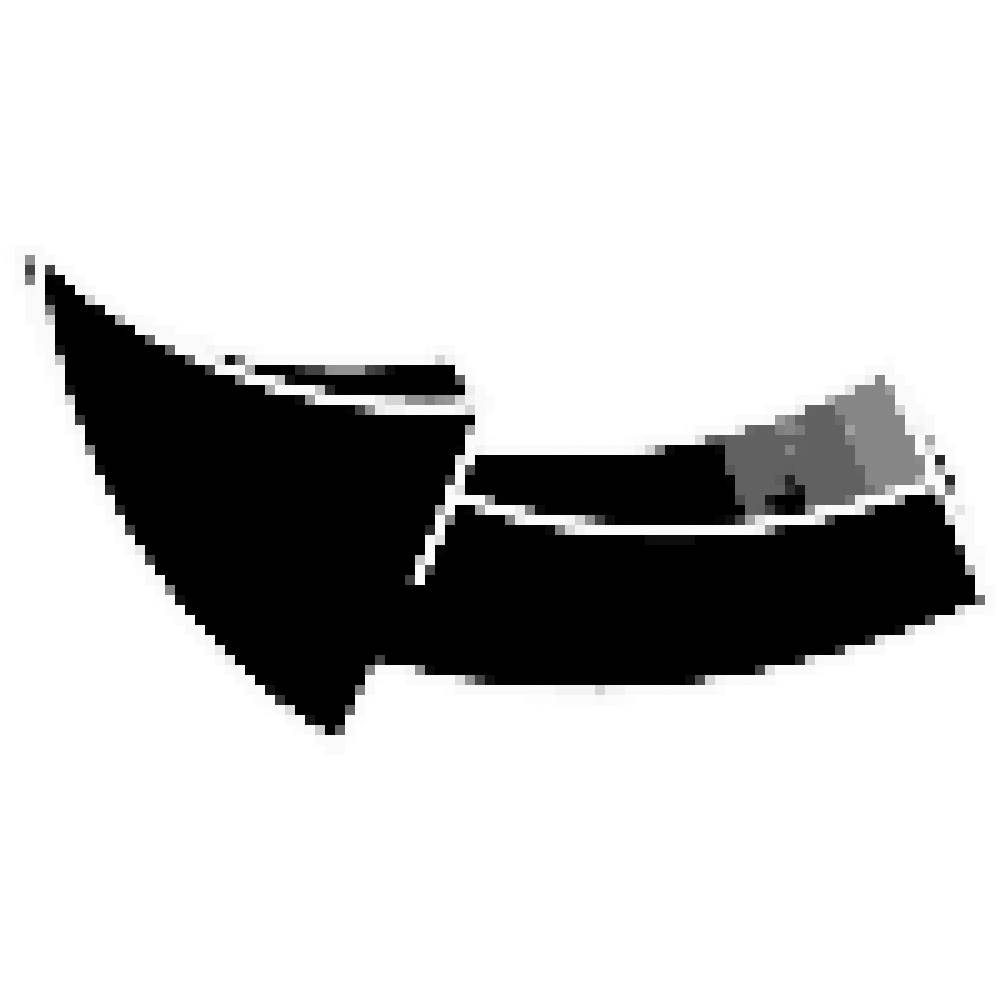
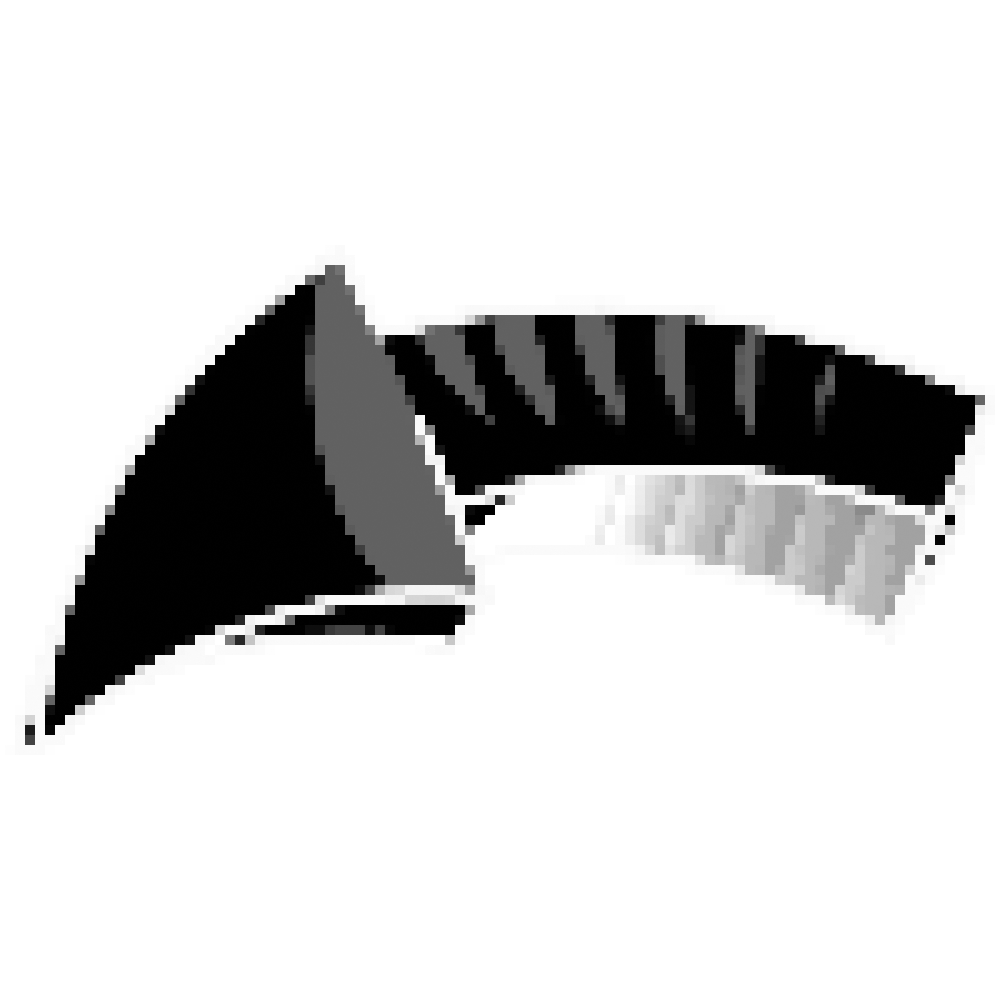
adding arrow for turning grid

Changed region(s): [[0.0, 0.248, 0.992, 0.744]]

diff --git a/src/core/rules/RulesCommun.hpp b/src/core/rules/RulesCommun.hpp
@@ -388,8 +388,8 @@ public:
     CardTurnGrid(std::string name, std::string description, int id) : Card(name, description, id)
     {
         this->canBeGlobalRules = true;
-        arrowDirection.push_back("left");
-        arrowDirection.push_back("right");
+        arrowDirection.push_back("turnLeft");
+        arrowDirection.push_back("turnRight");
     };
     /**
      * @brief Destructor for the CardTurnGrid class.
@@ -410,23 +410,23 @@ public:
     void applyCard(int x, int y, int CurrentGrid, Player &currentPlayer, Game &game, std::string sens) override
     {
         applyWhenGlobalRule(game, CurrentGrid);
-        if (sens == "left" || sens == "default")
+        if (sens == "turnLeft" || sens == "default")
         {
             turnLeft(CurrentGrid, game);
         }
-        else if (sens == "right")
+        else if (sens == "turnRight")
         {
             turnRight(CurrentGrid, game);
         }
     }
 
     /**
-     * @brief Turn the grid to the right.
+     * @brief Turn the grid to the left .
      *
      * @param CurrentGrid The current grid of the game.
      * @param game The game of the card.
      */
-    void turnRight(int CurrentGrid, Game &game)
+    void turnLeft(int CurrentGrid, Game &game)
     {
         Grid currentGrid = game.getGrid(CurrentGrid);
         std::vector<std::vector<Case *>> cases = currentGrid.getCases();
@@ -447,12 +447,12 @@ public:
     }
 
     /**
-     * @brief Turn the grid to the left.
+     * @brief Turn the grid to the right.
      *
      * @param CurrentGrid The current grid of the game.
      * @param game The game of the card.
      */
-    void turnLeft(int CurrentGrid, Game &game)
+    void turnRight(int CurrentGrid, Game &game)
     {
         Grid currentGrid = game.getGrid(CurrentGrid);
         std::vector<std::vector<Case *>> cases = currentGrid.getCases();

diff --git a/src/graphics/GridGraphic.cpp b/src/graphics/GridGraphic.cpp
@@ -546,6 +546,16 @@ void GridGraphic::drawArrowDirection(SDL_Renderer *renderer, Graphic &graphic)
                 SDL_Rect rect = {windowWidth - 100, windowHeight - 100, 50, 50};
                 SDL_RenderFillRect(renderer, &rect);
             }
+            if (directions[i] == "turnLeft")
+            {
+                SDL_Rect rect = {startX - 50 + this->gridX, startY + GridHeight / 2 + this->gridY - 25, 50, 50};
+                SDL_RenderCopy(renderer, arrowTurnLeftTexture, NULL, &rect);
+            }
+            if (directions[i] == "turnRight")
+            {
+                SDL_Rect rect = {endX + this->gridX, startY + GridHeight / 2 + this->gridY - 25, 50, 50};
+                SDL_RenderCopy(renderer, arrowTurnRightTexture, NULL, &rect);
+            }
         }
     }
 }

diff --git a/src/graphics/Graphic.cpp b/src/graphics/Graphic.cpp
@@ -487,14 +487,14 @@ void Graphic::handleArrowClick(int mouseX, int mouseY, int screenWidth, int scre
                     h = arrowDownHeight;
                     w = arrowDownWidth;
                 }
-                else if (directions[i] == "left")
+                else if (directions[i] == "left" || directions[i] == "turnLeft")
                 {
                     x = arrowLeftX;
                     y = arrowLeftY;
                     h = arrowLeftHeight;
                     w = arrowLeftWidth;
                 }
-                else if (directions[i] == "right")
+                else if (directions[i] == "right" || directions[i] == "turnRight")
                 {
                     x = arrowRightX;
                     y = arrowRightY;
